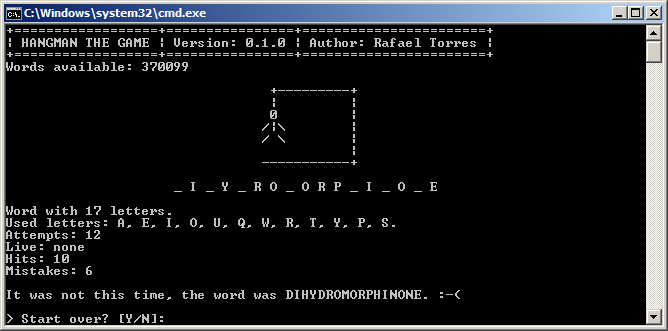
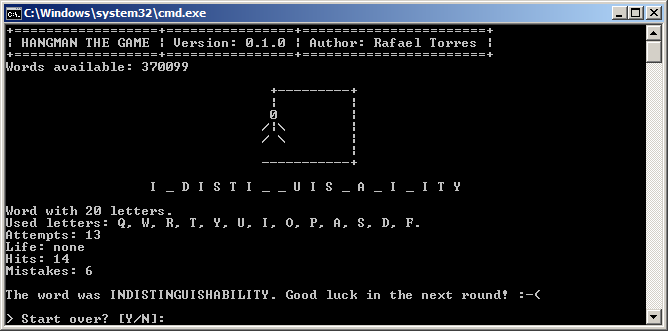
0.1.0

diff --git a/ui/disp.py b/ui/disp.py
@@ -39,9 +39,9 @@ def game_status(word_length, letter_used, attempts, lives, hits, mistakes):
     else:
         print(f"Attempts: {attempts}")
     if lives < 1:
-        print(f"Live: none")
+        print(f"Life: none")
     elif lives == 1:
-        print(f"Live: {lives}")
+        print(f"Life: {lives}")
     else:
         print(f"Lives: {lives}")
     if hits < 1:
